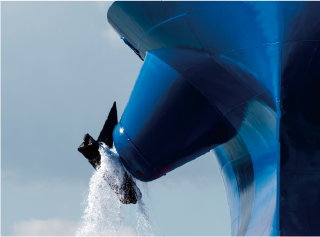
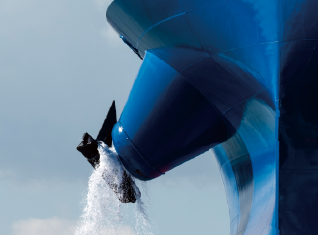
fix: 그리드 가이드 색상 반전·1px 정렬과 샘플 사진 반투명 테두리 제거
가이드를 흰 선 + mix-blend-mode: difference로 바꿔 배경을 반전시킨다. 흰 대지든
사진 위든 같은 선이 보인다(기존 currentColor는 판형 배경마다 다르게 묻혔다).

outline은 박스 바깥에 그려져 이웃 셀과 만나는 경계가 1px+1px=2px로 두꺼워졌다.
outline-offset: -0.5px로 선이 경계를 안·밖 0.5px씩 걸치게 해 두 선이 정확히 겹치도록 한다.

샘플 사진 6장 전부 가장자리 1px이 반투명이었다(alpha 12~192). 2x 익스포트가 소수 픽셀
경계에서 잘린 흔적이고, C 하단 잠수함은 alpha 12에 흰 대지 끝에 붙어 1px 흰 줄로 보였다.
원본에서 각 변 1px을 잘라 무손실로 다시 저장한다 — 픽셀 차이 0, 합계 902KB → 768KB.

diff --git a/src/features/guideline/widgets/layout-grid/component.tsx b/src/features/guideline/widgets/layout-grid/component.tsx
@@ -209,12 +209,17 @@ function cellPadding({ col, row, bleed = [], flush }: Item, half: Offsets): CSSP
 	}
 }
 
-/** 표 프레임 + 1:2:3 분할선. 콘텐츠 셀 9개에 테두리를 그려 얻는다 — 위치 계산이 없다. */
+/**
+ * 표 프레임 + 1:2:3 분할선. 콘텐츠 셀 9개에 테두리를 그려 얻는다 — 위치 계산이 없다.
+ * 색은 흰 선 + mix-blend-mode: difference = 배경 색상 반전이라 흰 대지에서도 사진 위에서도 보인다.
+ * 🔴 outline-offset: -0.5px — 선이 셀 경계를 0.5px씩 안·밖으로 걸치게 해서, 이웃 셀의 선과
+ *    정확히 겹쳐 1px로 보인다(offset 0이면 경계마다 0.5+0.5가 어긋나 2px로 두꺼워진다).
+ */
 function Guides({ marginPct }: { marginPct: number }) {
 	return (
 		<div
-			className="pointer-events-none absolute inset-0 grid opacity-40"
-			style={gridTemplate(marginPct)}
+			className="pointer-events-none absolute inset-0 grid"
+			style={{ ...gridTemplate(marginPct), mixBlendMode: 'difference' }}
 		>
 			{TRACKS.flatMap((_, rowIndex) =>
 				TRACKS.map((__, colIndex) => (
@@ -224,7 +229,8 @@ function Guides({ marginPct }: { marginPct: number }) {
 						style={{
 							gridColumn: colIndex + 2,
 							gridRow: rowIndex + 2,
-							outline: '1px solid currentColor',
+							outline: '1px solid #ffffff',
+							outlineOffset: '-0.5px',
 						}}
 					/>
 				)),
